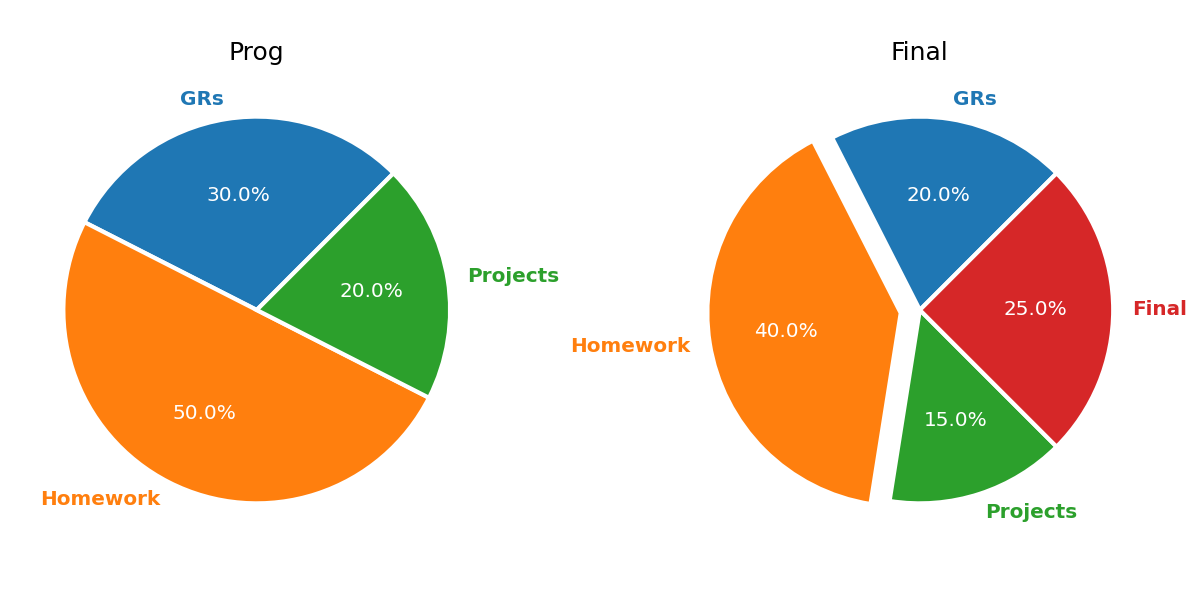
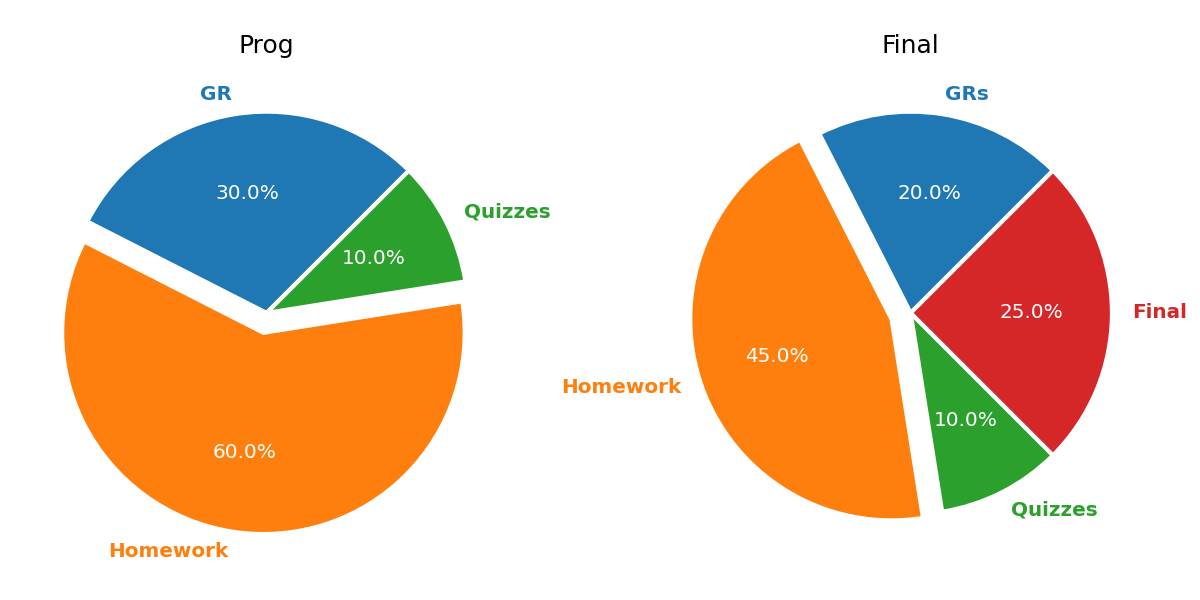
Updated grade distribution

diff --git a/book/syllabus.md b/book/syllabus.md
@@ -16,9 +16,9 @@ The **Grade distribution** for this course is shown below.
 
 |     Prog               |             |     Final              |             |
 |------------------------|-------------|------------------------|-------------|
-|     GR (1)             |     40%     |     GRs (2)            |     20%     |
-|     Homework           |     60%     |     Homework           |     40%     |
-|                        |             |     Projects (2)       |     15%     |
+|     GR (1)             |     30%     |     GRs (2)            |     20%     |
+|     Homework           |     60%     |     Homework           |     45%     |
+|     Quizzes            |     10$     |     Quizzes            |     10%     |
 |                        |             |     Final              |     25%     |
 |     Total              |     100%    |     Total              |     100%    |
 
@@ -47,7 +47,6 @@ All communication and course materials will be provided through a course and sec
 K. H. Rosen, <a href="https://www.mheducation.com/highered/product/Discrete-Mathematics-and-Its-Applications-Rosen.html" target="_blank"> _Discrete Mathematics and Its Applications_</a>, 8th ed. New York, NY, USA: McGraw-Hill, 2019.
 
 D. P. Bertsekas and J. N. Tsitsiklis, <a href="http://athenasc.com/probbook.html" target="_blank">*Introduction to Probability*</a>, 2nd ed. Belmont, MA, USA: Athena Scientific, 2008.
-
 
 ## Collaboration Policy
 
